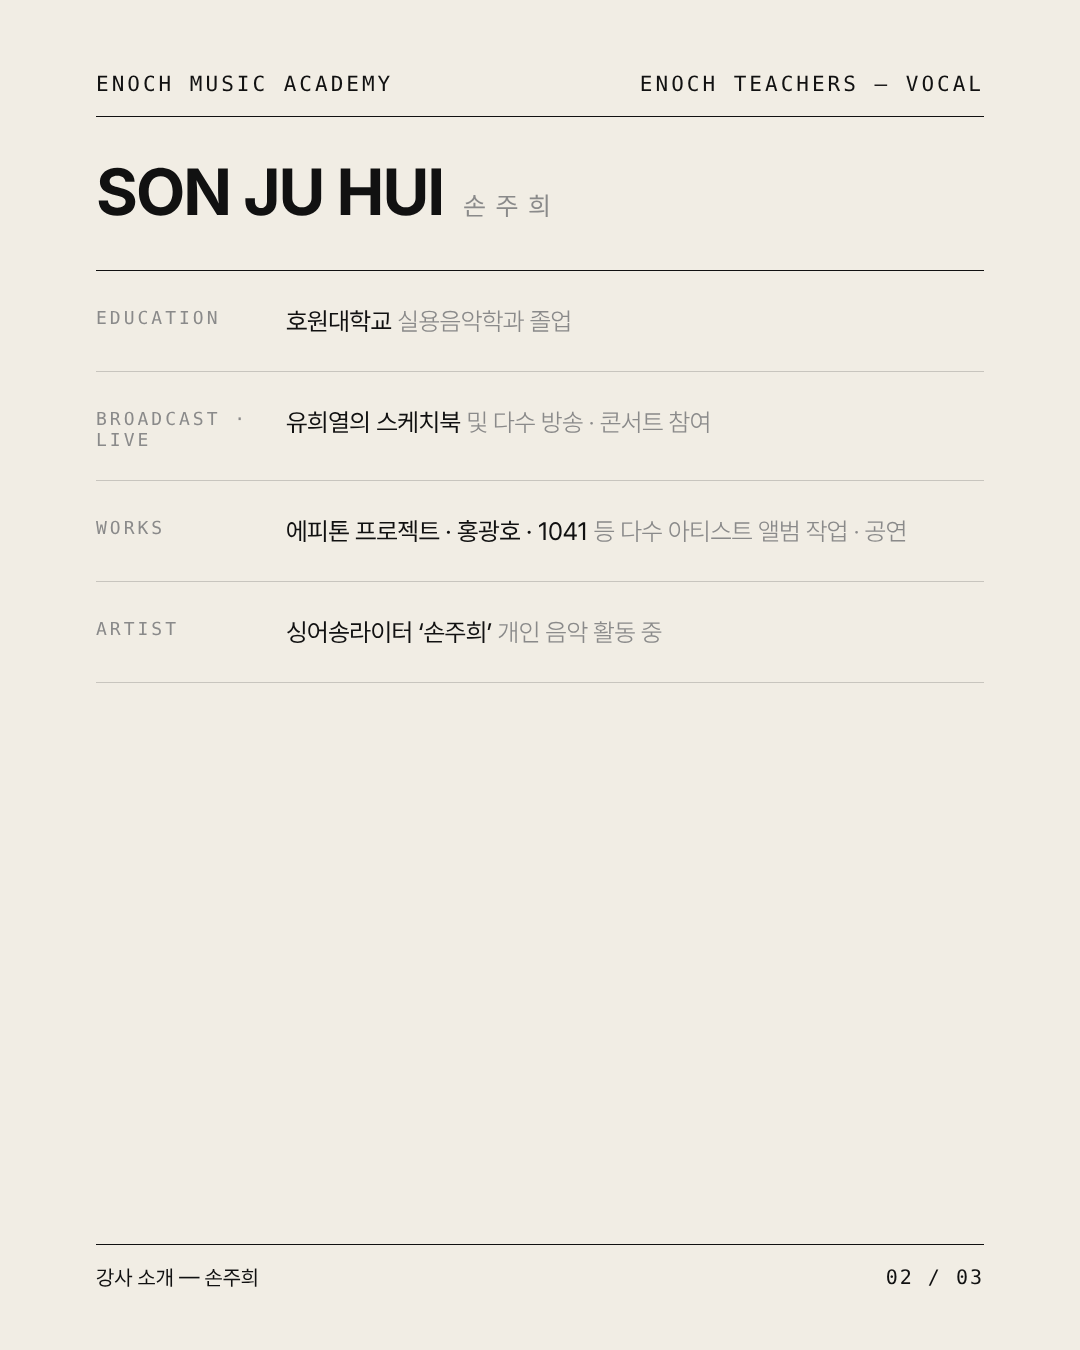
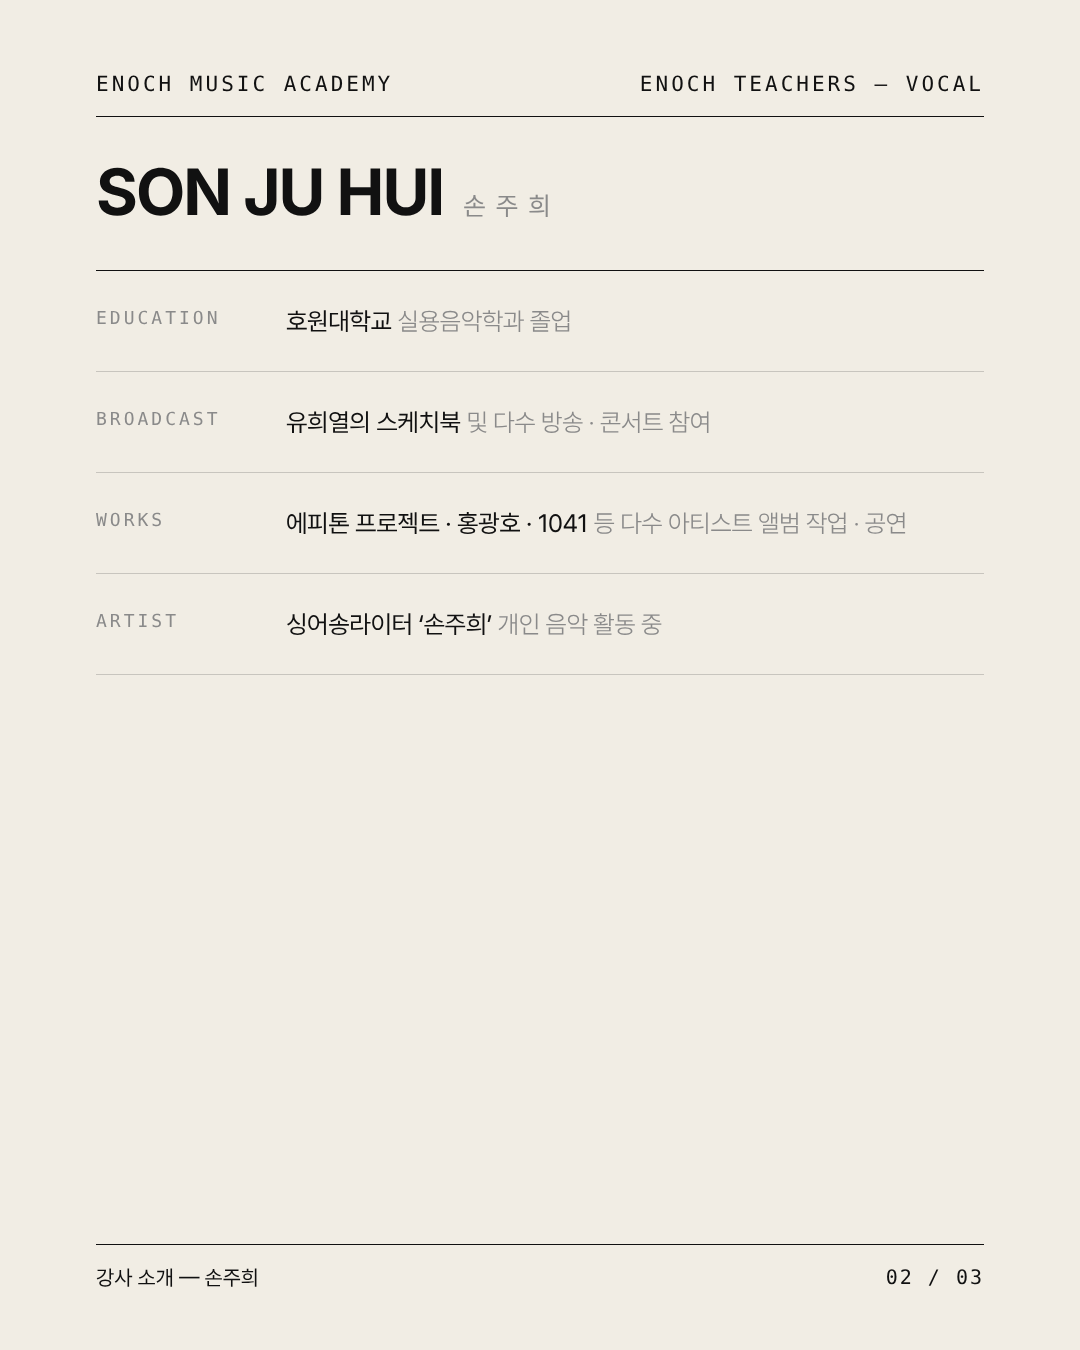
강사소개 손주희: 피드 디자인 아이보리 스토리 (story_ivory)
Claude-Session: https://claude.ai/code/session_01HGbZvgMeYrbU7mY8bwfjyb

diff --git a/output/강사소개_손주희/story_ivory.html b/output/강사소개_손주희/story_ivory.html
@@ -1,0 +1,77 @@
+<!doctype html><html lang="ko"><head><meta charset="utf-8"><title>강사 소개 손주희 피드</title><style>
+@font-face{font-family:P;src:url(../../templates/fonts/Pretendard-Light.woff2);font-weight:300}
+@font-face{font-family:P;src:url(../../templates/fonts/Pretendard-Regular.woff2);font-weight:400}
+@font-face{font-family:P;src:url(../../templates/fonts/Pretendard-Medium.woff2);font-weight:500}
+@font-face{font-family:P;src:url(../../templates/fonts/Pretendard-SemiBold.woff2);font-weight:600}
+@font-face{font-family:P;src:url(../../templates/fonts/Pretendard-Bold.woff2);font-weight:700}
+:root{--iv:#F1EDE4;--bk:#111;--g:#8A8A8A;--b:#55524D;--hair:rgba(17,17,17,.18);--mono:"IBM Plex Mono","DejaVu Sans Mono",monospace;--en:"Helvetica Neue",Helvetica,Arial,"Liberation Sans",P,sans-serif}
+*{box-sizing:border-box;margin:0;padding:0}
+.s{width:1080px;height:1350px;position:relative;overflow:hidden;background:var(--iv);color:var(--bk);font-family:P,sans-serif;margin-bottom:40px;word-break:keep-all}
+.s.dark{background:var(--bk);color:var(--iv)}
+.hd{position:absolute;left:96px;right:96px;top:72px;display:flex;justify-content:space-between;font-family:var(--mono);font-size:21px;letter-spacing:3px;padding-bottom:20px;border-bottom:1.5px solid currentColor}
+.ft{position:absolute;left:96px;right:96px;bottom:60px;display:flex;justify-content:space-between;font-family:var(--mono);font-size:20px;letter-spacing:2px;padding-top:20px;border-top:1.5px solid currentColor}
+.ft span:first-child{font-family:P,sans-serif;letter-spacing:0;font-size:21px}
+.k{font-family:var(--mono);font-size:18px;letter-spacing:3px;color:var(--g);text-transform:uppercase}
+/* 01 표지 */
+#f1 .ph{position:absolute;left:96px;top:150px;width:540px;height:730px;background:url(../../images/강사/손주희_01.jpg) 60% 30%/cover;filter:grayscale(1) sepia(.16) contrast(1.05)}
+#f1 .col{position:absolute;left:672px;right:96px;top:150px;height:730px;border-top:1.5px solid var(--bk);border-bottom:1.5px solid var(--bk)}
+#f1 .cell{padding:20px 0;border-bottom:1px solid var(--hair)}
+#f1 .cell:last-child{border-bottom:0}
+#f1 .cell .v{margin-top:8px;font-size:30px;font-weight:600;letter-spacing:-.6px}
+#f1 .cell .t{margin-top:10px;font-size:21px;line-height:1.6;font-weight:400;color:var(--b);letter-spacing:-.4px}
+#f1 .no{font-family:var(--en);font-size:76px;font-weight:300;line-height:1}
+#f1 .en{position:absolute;left:90px;top:920px;font-family:var(--en);font-weight:700;font-size:120px;letter-spacing:-4px;line-height:.95}
+#f1 .ko{position:absolute;left:96px;top:1080px;font-size:34px;font-weight:500;letter-spacing:12px}
+#f1 .ko span{color:var(--g);font-weight:300;letter-spacing:4px;margin-left:16px;font-size:28px}
+#f1 .band{position:absolute;left:0;right:0;bottom:0;height:72px;background:var(--bk);color:var(--iv);font-family:var(--mono);font-size:21px;letter-spacing:4px;white-space:nowrap;display:flex;align-items:center}
+#f1 .band span{padding-left:30px}
+/* 약력 */
+.nm{position:absolute;left:96px;top:160px;font-family:var(--en);font-size:64px;font-weight:700;letter-spacing:-2px;line-height:1}
+.nm small{font-family:P,sans-serif;font-size:26px;font-weight:400;letter-spacing:10px;margin-left:20px;color:var(--g)}
+.tbl{position:absolute;left:96px;right:96px;top:270px;border-top:1.5px solid var(--bk)}
+.sec{display:grid;grid-template-columns:190px 1fr;padding:30px 0;border-bottom:1px solid var(--hair)}
+.sec .k{padding-top:6px}
+.sec ul{list-style:none}
+.sec li{font-size:27px;line-height:1.6;letter-spacing:-.5px}
+.sec li i{font-style:normal;color:var(--g);font-weight:300}
+/* 마무리 */
+#f4 .ghost{position:absolute;left:84px;top:150px;font-family:var(--en);font-weight:700;font-size:240px;letter-spacing:-8px;color:#2A2825;line-height:1}
+#f4 .h{position:absolute;left:92px;top:450px;font-size:72px;font-weight:700;letter-spacing:-3px;line-height:1.22}
+#f4 .h em{font-style:normal;font-weight:300}
+#f4 .p{position:absolute;left:96px;right:96px;top:700px;font-size:30px;line-height:1.75;color:#C9C4BB;letter-spacing:-.6px}
+#f4 .p b{color:var(--iv)}
+#f4 .info{position:absolute;left:96px;right:96px;top:1040px;padding-top:22px;border-top:1px solid rgba(241,237,228,.3);display:flex;justify-content:space-between;font-size:22px;line-height:1.6}
+
+#f2 .sec{padding:30px 0}
+#f2 .sec li{font-size:25px}
+
+#S{height:1920px}
+#S .hd{top:230px}
+#S .ph{position:absolute;left:96px;top:310px;width:540px;height:760px;background:url(../../images/강사/손주희_01.jpg) 60% 30%/cover;filter:grayscale(1) sepia(.16) contrast(1.05)}
+#S .col{position:absolute;left:672px;right:96px;top:310px;height:760px;border-top:1.5px solid var(--bk);border-bottom:1.5px solid var(--bk)}
+#S .cell{padding:22px 0;border-bottom:1px solid var(--hair)}
+#S .cell:last-child{border-bottom:0}
+#S .cell .v{margin-top:8px;font-size:30px;font-weight:600;letter-spacing:-.6px}
+#S .cell .t{margin-top:10px;font-size:22px;line-height:1.6;color:var(--b);letter-spacing:-.4px}
+#S .en{position:absolute;left:90px;top:1110px;font-family:var(--en);font-weight:700;font-size:124px;letter-spacing:-4px;line-height:.95}
+#S .ko{position:absolute;left:96px;top:1270px;font-size:34px;font-weight:500;letter-spacing:12px}
+#S .ko span{color:var(--g);font-weight:300;letter-spacing:4px;margin-left:16px;font-size:28px}
+#S .tbl{position:absolute;left:96px;right:96px;top:1350px;border-top:1.5px solid var(--bk)}
+#S .sec{padding:20px 0;grid-template-columns:200px 1fr}
+#S .sec li{font-size:25px;line-height:1.5}
+#S .band{position:absolute;left:0;right:0;top:1700px;height:64px;background:var(--bk);color:var(--iv);font-family:var(--mono);font-size:20px;letter-spacing:4px;white-space:nowrap;display:flex;align-items:center}
+#S .band span{padding-left:30px}
+</style></head><body>
+<section class="s" id="S">
+  <div class="hd"><span>ENOCH MUSIC ACADEMY</span><span>ENOCH TEACHERS — VOCAL</span></div>
+  <div class="ph"></div>
+  <div class="col">
+    <div class="cell"><div class="k">Subject</div><div class="v">Vocal</div></div>
+    <div class="cell"><div class="k">Lesson</div><div class="v">1:1</div></div>
+    <div class="cell"><div class="k">Career</div><div class="t">호원대 실용음악학과 졸업<br>유희열의 스케치북 등 방송 · 콘서트<br>에피톤 프로젝트 · 홍광호 · 1041<br>싱어송라이터 ‘손주희’ 활동</div></div>
+  </div>
+  <div class="en">SON JU HUI</div>
+  <div class="ko">손주희<span>보컬</span></div>
+  <div class="tbl"><div class="sec"><span class="k">Education</span><ul><li>호원대학교 <i>실용음악학과 졸업</i></li></ul></div><div class="sec"><span class="k">Broadcast</span><ul><li>유희열의 스케치북 <i>및 다수 방송 · 콘서트 참여</i></li></ul></div><div class="sec"><span class="k">Works</span><ul><li>에피톤 프로젝트 · 홍광호 · 1041 <i>등 다수 아티스트 앨범 작업 · 공연</i></li></ul></div><div class="sec"><span class="k">Artist</span><ul><li>싱어송라이터 ‘손주희’ <i>개인 음악 활동 중</i></li></ul></div></div>
+  <div class="band"><span>VOCAL — 손주희 — ENOCH TEACHERS — VOCAL — 손주희 — ENOCH TEACHERS — VOCAL — 손주희 — ENOCH TEACHERS — VOCAL — 손주희 — ENOCH TEACHERS — </span></div>
+</section></body></html>

diff --git a/output/강사소개_손주희/feed.html b/output/강사소개_손주희/feed.html
@@ -60,7 +60,7 @@
 <section class="s" id="f2">
   <div class="hd"><span>ENOCH MUSIC ACADEMY</span><span>ENOCH TEACHERS — VOCAL</span></div>
   <div class="nm">SON JU HUI<small>손주희</small></div>
-  <div class="tbl"><div class="sec"><span class="k">Education</span><ul><li>호원대학교 <i>실용음악학과 졸업</i></li></ul></div><div class="sec"><span class="k">Broadcast · Live</span><ul><li>유희열의 스케치북 <i>및 다수 방송 · 콘서트 참여</i></li></ul></div><div class="sec"><span class="k">Works</span><ul><li>에피톤 프로젝트 · 홍광호 · 1041 <i>등 다수 아티스트 앨범 작업 · 공연</i></li></ul></div><div class="sec"><span class="k">Artist</span><ul><li>싱어송라이터 ‘손주희’ <i>개인 음악 활동 중</i></li></ul></div></div>
+  <div class="tbl"><div class="sec"><span class="k">Education</span><ul><li>호원대학교 <i>실용음악학과 졸업</i></li></ul></div><div class="sec"><span class="k">Broadcast</span><ul><li>유희열의 스케치북 <i>및 다수 방송 · 콘서트 참여</i></li></ul></div><div class="sec"><span class="k">Works</span><ul><li>에피톤 프로젝트 · 홍광호 · 1041 <i>등 다수 아티스트 앨범 작업 · 공연</i></li></ul></div><div class="sec"><span class="k">Artist</span><ul><li>싱어송라이터 ‘손주희’ <i>개인 음악 활동 중</i></li></ul></div></div>
   <div class="ft"><span>강사 소개 — 손주희</span><span>02 / 03</span></div>
 </section>
 <section class="s dark" id="f4">

diff --git a/output/강사소개_손주희/build.py b/output/강사소개_손주희/build.py
@@ -43,7 +43,7 @@ feed = f'''</style></head><body>
 <section class="s" id="f2">
   <div class="hd"><span>ENOCH MUSIC ACADEMY</span><span>ENOCH TEACHERS — VOCAL</span></div>
   <div class="nm">SON JU HUI<small>손주희</small></div>
-  <div class="tbl">{sec("Education", EDU)}{sec("Broadcast · Live", LIVE)}{sec("Works", WORK)}{sec("Artist", ART)}</div>
+  <div class="tbl">{sec("Education", EDU)}{sec("Broadcast", LIVE)}{sec("Works", WORK)}{sec("Artist", ART)}</div>
   <div class="ft"><span>강사 소개 — 손주희</span><span>02 / 03</span></div>
 </section>
 <section class="s dark" id="f4">
@@ -115,3 +115,40 @@ one = sh.split('</title>')[0] + '</title><style>' + one_css + '''
 '''
 open(os.path.join(HERE, 'story_one.html'), 'w', encoding='utf-8').write(one)
 print('story_one.html')
+
+# ---------- 아이보리 스토리 한 장 (피드 디자인을 1080×1920으로) → story_ivory.html ----------
+fh = (head + feed).split('</style>')[0]
+iv = fh + '''
+#S{height:1920px}
+#S .hd{top:230px}
+#S .ph{position:absolute;left:96px;top:310px;width:540px;height:760px;background:url(../../images/강사/손주희_01.jpg) 60% 30%/cover;filter:grayscale(1) sepia(.16) contrast(1.05)}
+#S .col{position:absolute;left:672px;right:96px;top:310px;height:760px;border-top:1.5px solid var(--bk);border-bottom:1.5px solid var(--bk)}
+#S .cell{padding:22px 0;border-bottom:1px solid var(--hair)}
+#S .cell:last-child{border-bottom:0}
+#S .cell .v{margin-top:8px;font-size:30px;font-weight:600;letter-spacing:-.6px}
+#S .cell .t{margin-top:10px;font-size:22px;line-height:1.6;color:var(--b);letter-spacing:-.4px}
+#S .en{position:absolute;left:90px;top:1110px;font-family:var(--en);font-weight:700;font-size:124px;letter-spacing:-4px;line-height:.95}
+#S .ko{position:absolute;left:96px;top:1270px;font-size:34px;font-weight:500;letter-spacing:12px}
+#S .ko span{color:var(--g);font-weight:300;letter-spacing:4px;margin-left:16px;font-size:28px}
+#S .tbl{position:absolute;left:96px;right:96px;top:1350px;border-top:1.5px solid var(--bk)}
+#S .sec{padding:20px 0;grid-template-columns:200px 1fr}
+#S .sec li{font-size:25px;line-height:1.5}
+#S .band{position:absolute;left:0;right:0;top:1700px;height:64px;background:var(--bk);color:var(--iv);font-family:var(--mono);font-size:20px;letter-spacing:4px;white-space:nowrap;display:flex;align-items:center}
+#S .band span{padding-left:30px}
+</style></head><body>
+<section class="s" id="S">
+  <div class="hd"><span>ENOCH MUSIC ACADEMY</span><span>ENOCH TEACHERS — VOCAL</span></div>
+  <div class="ph"></div>
+  <div class="col">
+    <div class="cell"><div class="k">Subject</div><div class="v">Vocal</div></div>
+    <div class="cell"><div class="k">Lesson</div><div class="v">1:1</div></div>
+    <div class="cell"><div class="k">Career</div><div class="t">호원대 실용음악학과 졸업<br>유희열의 스케치북 등 방송 · 콘서트<br>에피톤 프로젝트 · 홍광호 · 1041<br>싱어송라이터 ‘손주희’ 활동</div></div>
+  </div>
+  <div class="en">SON JU HUI</div>
+  <div class="ko">손주희<span>보컬</span></div>
+  <div class="tbl">''' + sec("Education", EDU) + sec("Broadcast", LIVE) + sec("Works", WORK) + sec("Artist", ART) + f'''</div>
+  <div class="band"><span>{band}</span></div>
+</section></body></html>
+'''
+open(os.path.join(HERE, 'story_ivory.html'), 'w', encoding='utf-8').write(iv)
+print('story_ivory.html')
